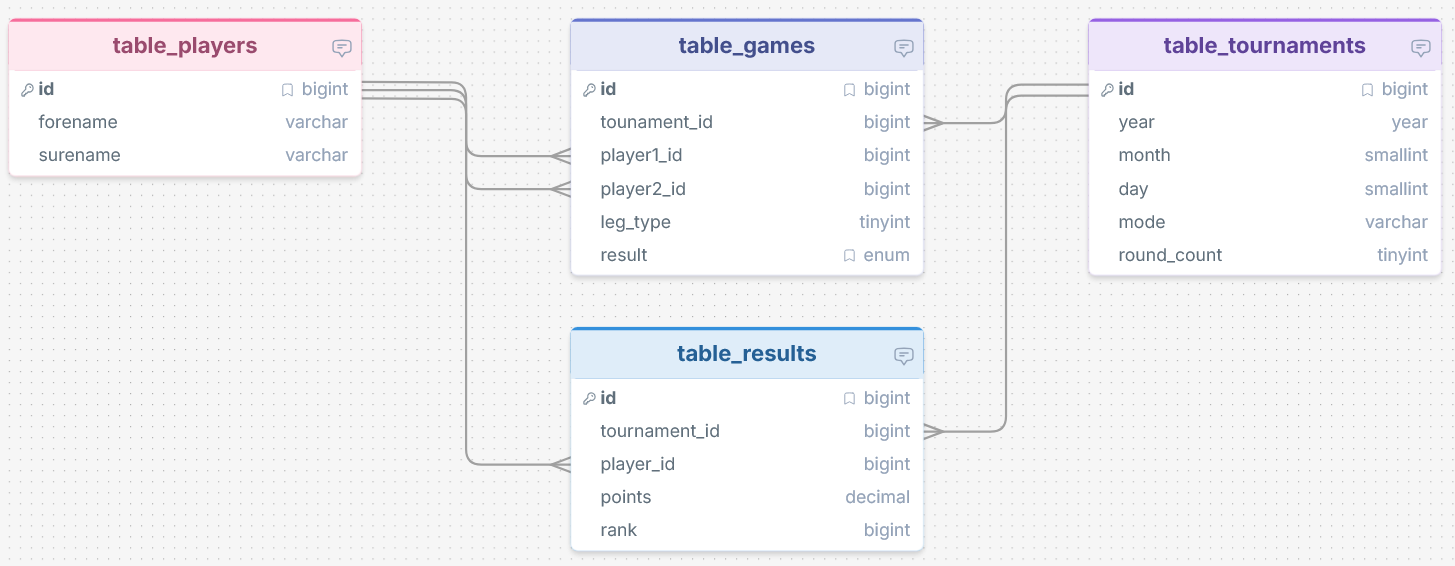
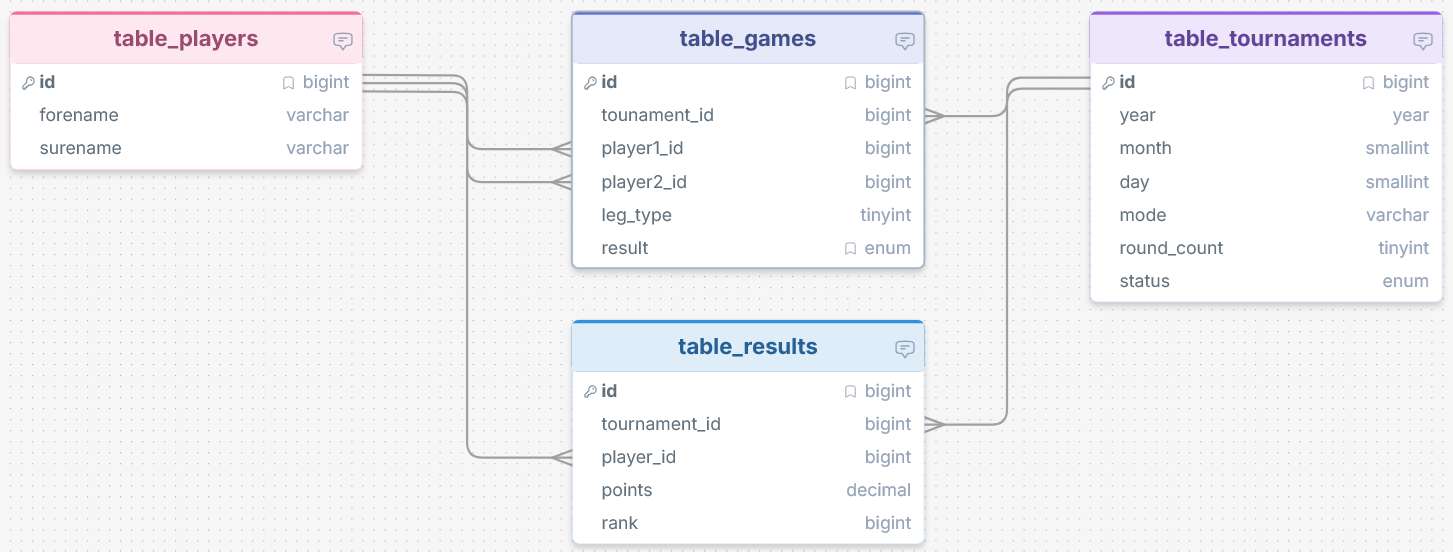
fixes for CSS and status field added to database

diff --git a/assets/css/monatsblitz-tables.css b/assets/css/monatsblitz-tables.css
@@ -1,0 +1,28 @@
+table.monatsblitz {
+  border-collapse: collapse;
+  width: 100%;
+  text-align: center;
+  font-size: 0.95rem;
+  margin: 1em 0;
+}
+
+table.monatsblitz th,
+table.monatsblitz td {
+  border: 1px solid #444;
+  padding: 6px 8px;
+}
+
+table.monatsblitz th {
+  background-color: #f0f0f0;
+  font-weight: 600;
+}
+
+table.monatsblitz caption {
+  font-weight: 700;
+  font-size: 1.1rem;
+  margin-bottom: 0.5em;
+}
+
+table.monatsblitz tbody tr:nth-child(even) {
+  background-color: #fafafa;
+}

diff --git a/src/Database/CreateGameHandler.php b/src/Database/CreateGameHandler.php
@@ -84,15 +84,19 @@ class CreateGameHandler
 
         [$player1_id, $player2_id, $result] = $this->normalizePlayers($player1_id, $player2_id, $result);
 
-        $exists = $wpdb->get_var(
+        $status = $wpdb->get_var(
             $wpdb->prepare(
-                "SELECT id FROM {$wpdb->prefix}monatsblitz_tournaments WHERE id = %d",
+                "SELECT status FROM {$wpdb->prefix}monatsblitz_tournaments WHERE id = %d",
                 $tournament_id
             )
         );
 
-        if (!$exists) {
+        if ($status === null) {
             return new \WP_Error('invalid_tournament', 'Turnier existiert nicht', ['status' => 404]);
+        }
+
+        if ($status === 'finalized') {
+            return new \WP_Error('tournament_finalized', 'Turnier ist bereits finalisiert', ['status' => 403]);
         }
 
         $wpdb->insert(
@@ -143,15 +147,19 @@ class CreateGameHandler
             return new \WP_Error('invalid_game', 'Spiel existiert nicht', ['status' => 404]);
         }
 
-        $tournament_exists = $wpdb->get_var(
+        $tournament_status = $wpdb->get_var(
             $wpdb->prepare(
-                "SELECT id FROM {$wpdb->prefix}monatsblitz_tournaments WHERE id = %d",
+                "SELECT status FROM {$wpdb->prefix}monatsblitz_tournaments WHERE id = %d",
                 $tournament_id
             )
         );
 
-        if (!$tournament_exists) {
+        if ($tournament_status === null) {
             return new \WP_Error('invalid_tournament', 'Turnier existiert nicht', ['status' => 404]);
+        }
+
+        if ($tournament_status === 'finalized') {
+            return new \WP_Error('tournament_finalized', 'Turnier ist bereits finalisiert', ['status' => 403]);
         }
 
         $duplicate_game = $wpdb->get_var(

diff --git a/tests/Unit/Database/CreateGameHandlerTest.php b/tests/Unit/Database/CreateGameHandlerTest.php
@@ -205,3 +205,53 @@ it('updates existing game when game_id is provided', function () {
     expect($wpdb->last_update_data['player2_id'])->toBe(8);
     expect($wpdb->last_update_data['result'])->toBe('0:1');
 });
+
+it('fails to create game when tournament is finalized', function () {
+    global $wpdb;
+
+    $wpdb->get_var_result = 'finalized';
+
+    $request = new class {
+        public function get_json_params() {
+            return [
+                'tournament_id' => 9,
+                'player1_id' => 1,
+                'player2_id' => 2,
+                'result' => '1:0'
+            ];
+        }
+    };
+
+    $handler = new CreateGameHandler();
+    $result  = $handler->handle($request);
+
+    expect($result)->toBeInstanceOf(WP_Error::class);
+    expect($result->get_error_code())->toBe('tournament_finalized');
+    expect($result->get_error_data()['status'])->toBe(403);
+});
+
+it('fails to update game when tournament is finalized', function () {
+    global $wpdb;
+
+    $wpdb->get_var_queue = [99, 'finalized'];
+
+    $request = new class {
+        public function get_json_params() {
+            return [
+                'game_id' => 99,
+                'tournament_id' => 9,
+                'player1_id' => 1,
+                'player2_id' => 2,
+                'leg_type' => 1,
+                'result' => '1:0'
+            ];
+        }
+    };
+
+    $handler = new CreateGameHandler();
+    $result  = $handler->handle($request);
+
+    expect($result)->toBeInstanceOf(WP_Error::class);
+    expect($result->get_error_code())->toBe('tournament_finalized');
+    expect($result->get_error_data()['status'])->toBe(403);
+});

diff --git a/monatsblitz.php b/monatsblitz.php
@@ -2,9 +2,15 @@
 
 /**
  * Plugin Name: Monatsblitz
+ * Plugin URI: https://github.com/kindermaenner/monatsblitz-wp-plugin
  * Description: Verwaltung von Monatsblitz-Turnieren.
  * Version: 1.0
+ * Requires PHP: 8.1
  * Author: Nina Kindermann
+ * Author URI: https://kindermaenner.de
+ * License: GPL-2.0-or-later
+ * License URI: https://github.com/kindermaenner/monatsblitz-wp-plugin/blob/main/LICENSE
+ * Update URI: https://kindermaenner.de/plugin-updates/monatsblitz/
  */
 
 if (!defined('ABSPATH')) {
@@ -34,4 +40,31 @@ register_activation_hook(__FILE__, [\Monatsblitz\Database\DatabaseSchema::class,
 add_action('plugins_loaded', function () {
     \Monatsblitz\Api\Api::init();
     \Monatsblitz\Admin\Admin::init();
+
+    add_action('wp_enqueue_scripts', static function (): void {
+        wp_enqueue_style(
+            'monatsblitz-tables',
+            MB_PLUGIN_URL . 'assets/css/monatsblitz-tables.css',
+            [],
+            '1.0'
+        );
+        wp_enqueue_style(
+            'monatsblitz-cross-table',
+            MB_PLUGIN_URL . 'assets/css/monatsblitz-cross-table.css',
+            ['monatsblitz-tables'],
+            '1.0'
+        );
+        wp_enqueue_style(
+            'monatsblitz-year-overview',
+            MB_PLUGIN_URL . 'assets/css/monatsblitz-year-overview.css',
+            ['monatsblitz-tables'],
+            '1.0'
+        );
+        wp_enqueue_style(
+            'monatsblitz-year-ranking',
+            MB_PLUGIN_URL . 'assets/css/monatsblitz-year-ranking.css',
+            ['monatsblitz-tables'],
+            '1.0'
+        );
+    });
 });

diff --git a/tests/Unit/Output/FinalizeTournamentServiceTest.php b/tests/Unit/Output/FinalizeTournamentServiceTest.php
@@ -44,7 +44,7 @@ it('finalizes a tournament successfully using the service', function () {
     $GLOBALS['mb_test_template_post'] = (object) [
         'ID' => 15,
         'post_title' => 'TemplateSuccess',
-        'post_content' => '<article>{{table}}</article>',
+        'post_content' => '<article>{{table}}</article> table.monatsblitz { border-collapse: collapse; width: 100%; text-align: center; font-size: 0.95rem; margin: 1em 0; } table.monatsblitz th, table.monatsblitz td { border: 1px solid #444; padding: 6px 8px; } table.monatsblitz th { background-color: #f0f0f0; font-weight: 600; } table.monatsblitz caption { font-weight: 700; font-size: 1.1rem; margin-bottom: 0.5em; } table.monatsblitz tbody tr:nth-child(even) { background-color: #fafafa; }',
     ];
     $GLOBALS['mb_test_next_post_id'] = 810;
     $GLOBALS['mb_test_get_posts_queue'] = [[], [], [], []];
@@ -82,4 +82,8 @@ it('finalizes a tournament successfully using the service', function () {
     expect($result['post_id'])->toBe(810);
     expect($GLOBALS['mb_test_last_inserted_post'])->not->toBeNull();
     expect($GLOBALS['mb_test_last_inserted_post']['post_content'])->toContain('<article>');
+    expect($GLOBALS['mb_test_last_inserted_post']['post_content'])->not->toContain('table.monatsblitz {');
+    expect($wpdb->last_update_table)->toBe('wp_monatsblitz_tournaments');
+    expect($wpdb->last_update_data['status'])->toBe('finalized');
+    expect($wpdb->last_update_where['id'])->toBe(15);
 });

diff --git a/src/Output/YearStaticPageHandler.php b/src/Output/YearStaticPageHandler.php
@@ -211,12 +211,7 @@ class YearStaticPageHandler
     private function buildOverviewTable(array $monthly, bool $hideJanuary): string
     {
         $startMonth = $hideJanuary ? 2 : 1;
-
-        $css_file = MONATSBLITZ_PLUGIN_PATH . 'assets/css/monatsblitz-year-overview.css';
-        $css = file_get_contents($css_file);
-
-        $html  = "<style>\n" . $css . "\n</style>\n";
-        $html .= '<div class="mb-year-scroll">';
+        $html = '<div class="mb-year-scroll">';
         $html .= '<table class="monatsblitz-year-overview">';
         $html .= '<thead><tr><th>Spieler</th>';
         for ($month = $startMonth; $month <= 12; $month++) {
@@ -274,11 +269,7 @@ class YearStaticPageHandler
             return (int)$b['points'] <=> (int)$a['points'];
         });
 
-        $css_file = MONATSBLITZ_PLUGIN_PATH . 'assets/css/monatsblitz-year-ranking.css';
-        $css = file_get_contents($css_file);
-
-        $html  = "<style>\n" . $css . "\n</style>\n";
-        $html .= '<table class="monatsblitz-year-ranking">';
+        $html = '<table class="monatsblitz-year-ranking">';
         $html .= '<thead><tr>';
         $html .= '<th><span class="full">Platz</span><span class="short">Pl.</span></th>';
         $html .= '<th>Spieler</th>';

diff --git a/src/Queries/GetTournamentsHandler.php b/src/Queries/GetTournamentsHandler.php
@@ -12,7 +12,7 @@ class GetTournamentsHandler
 
         $table = $wpdb->prefix . 'monatsblitz_tournaments';
 
-        return $wpdb->get_results(
+        $results = $wpdb->get_results(
             "SELECT
                 id,
                 year,
@@ -20,10 +20,25 @@ class GetTournamentsHandler
                 day,
                 mode,
                 round_count,
+                status,
+                CONCAT(year, '-', LPAD(month, 2, '0'), '-', LPAD(day, 2, '0')) AS date,
                 CONCAT(day, '.', month, '.', year) AS date_formatted
              FROM $table
              ORDER BY year DESC, month DESC, day DESC",
             ARRAY_A
         );
+
+        if (is_array($results)) {
+            foreach ($results as &$row) {
+                if (!isset($row['status'])) {
+                    $row['status'] = 'open';
+                }
+                if (isset($row['year'], $row['month'], $row['day']) && !isset($row['date'])) {
+                    $row['date'] = sprintf('%04d-%02d-%02d', (int)$row['year'], (int)$row['month'], (int)$row['day']);
+                }
+            }
+        }
+
+        return is_array($results) ? $results : [];
     }
 }

diff --git a/src/Output/TournamentContentBuilder.php b/src/Output/TournamentContentBuilder.php
@@ -9,7 +9,7 @@ class TournamentContentBuilder
     public static function buildCrossTable(array $players, array $games, bool $include_totals, ?int $round = null): string
     {
         $game_map = static::buildGameMap($games, $round);
-        $table_html = static::buildCrossTableStyle();
+        $table_html = static::buildCrossTableStart();
         $table_html .= static::buildCrossTableHeader(count($players), $include_totals);
         $table_html .= '<tbody>';
 
@@ -39,12 +39,9 @@ class TournamentContentBuilder
         return $game_map;
     }
 
-    private static function buildCrossTableStyle(): string
+    private static function buildCrossTableStart(): string
     {
-        $css_file = MONATSBLITZ_PLUGIN_PATH . 'assets/css/monatsblitz-cross-table.css';
-        $css = file_get_contents($css_file);
-
-        return "<style>\n" . $css . "\n</style>\n" . '<div class="mb-crosstable-scroll">' . '<table class="monatsblitz-crosstable">';
+        return '<div class="mb-crosstable-scroll"><table class="monatsblitz-crosstable">';
     }
 
     private static function buildCrossTableHeader(int $player_count, bool $include_totals): string

diff --git a/src/Database/CreateTournamentHandler.php b/src/Database/CreateTournamentHandler.php
@@ -64,6 +64,7 @@ class CreateTournamentHandler
 
         $mode        = sanitize_text_field($params['mode'] ?? '');
         $round_count = intval($params['round_count'] ?? 1);
+        $status      = 'open';
 
         if ($mode === '') {
             return new \WP_Error('invalid_data', 'Mode is required', ['status' => 400]);
@@ -82,9 +83,10 @@ class CreateTournamentHandler
                 'month'       => $monthInt,
                 'day'         => $dayInt,
                 'mode'        => $mode,
-                'round_count' => $round_count
+                'round_count' => $round_count,
+                'status'      => $status
             ],
-            ['%d', '%d', '%d', '%s', '%d']
+            ['%d', '%d', '%d', '%s', '%d', '%s']
         );
 
         if ($insertResult === false) {
@@ -118,6 +120,7 @@ class CreateTournamentHandler
                         'day' => $dayInt,
                         'mode' => $mode,
                         'round_count' => $round_count,
+                        'status' => $status,
                     ],
                 ]
             );

diff --git a/src/Database/CreateResultHandler.php b/src/Database/CreateResultHandler.php
@@ -72,16 +72,20 @@ class CreateResultHandler
             return new \WP_Error('invalid_data', 'Turnier-ID und Spieler-ID erforderlich', ['status' => 400]);
         }
 
-        // Turnier existiert?
-        $tournament_exists = $wpdb->get_var(
+        // Turnier existiert und ist nicht finalisiert?
+        $tournament_status = $wpdb->get_var(
             $wpdb->prepare(
-                "SELECT id FROM {$wpdb->prefix}monatsblitz_tournaments WHERE id = %d",
+                "SELECT status FROM {$wpdb->prefix}monatsblitz_tournaments WHERE id = %d",
                 $tournament_id
             )
         );
 
-        if (!$tournament_exists) {
+        if ($tournament_status === null) {
             return new \WP_Error('invalid_tournament', 'Turnier existiert nicht', ['status' => 404]);
+        }
+
+        if ($tournament_status === 'finalized') {
+            return new \WP_Error('tournament_finalized', 'Turnier ist bereits finalisiert', ['status' => 403]);
         }
 
         // Spieler existiert?

diff --git a/src/Queries/GetTournamentHandler.php b/src/Queries/GetTournamentHandler.php
@@ -22,6 +22,8 @@ class GetTournamentHandler
                     day,
                     mode,
                     round_count,
+                    status,
+                    CONCAT(year, '-', LPAD(month, 2, '0'), '-', LPAD(day, 2, '0')) AS date,
                     CONCAT(day, '.', month, '.', year) AS date_formatted
                  FROM $table
                  WHERE id = %d",
@@ -36,6 +38,13 @@ class GetTournamentHandler
                 'Turnier nicht gefunden',
                 ['status' => 404]
             );
+        }
+
+        if (!isset($result['status'])) {
+            $result['status'] = 'open';
+        }
+        if (isset($result['year'], $result['month'], $result['day']) && !isset($result['date'])) {
+            $result['date'] = sprintf('%04d-%02d-%02d', (int)$result['year'], (int)$result['month'], (int)$result['day']);
         }
 
         return $result;

diff --git a/tests/Unit/Database/CreateResultHandlerTest.php b/tests/Unit/Database/CreateResultHandlerTest.php
@@ -159,3 +159,27 @@ it('rejects invalid batch result payloads', function () {
     expect($result)->toBeInstanceOf(WP_Error::class);
 });
 
+it('fails to create result when tournament is finalized', function () {
+    global $wpdb;
+
+    $wpdb->get_var_queue = ['finalized'];
+
+    $request = new class {
+        public function get_json_params() {
+            return [
+                'tournament_id' => 1,
+                'player_id' => 2,
+                'points' => 3.5,
+                'rank' => 1
+            ];
+        }
+    };
+
+    $handler = new CreateResultHandler();
+    $result  = $handler->handle($request);
+
+    expect($result)->toBeInstanceOf(WP_Error::class);
+    expect($result->get_error_code())->toBe('tournament_finalized');
+    expect($result->get_error_data()['status'])->toBe(403);
+});
+
